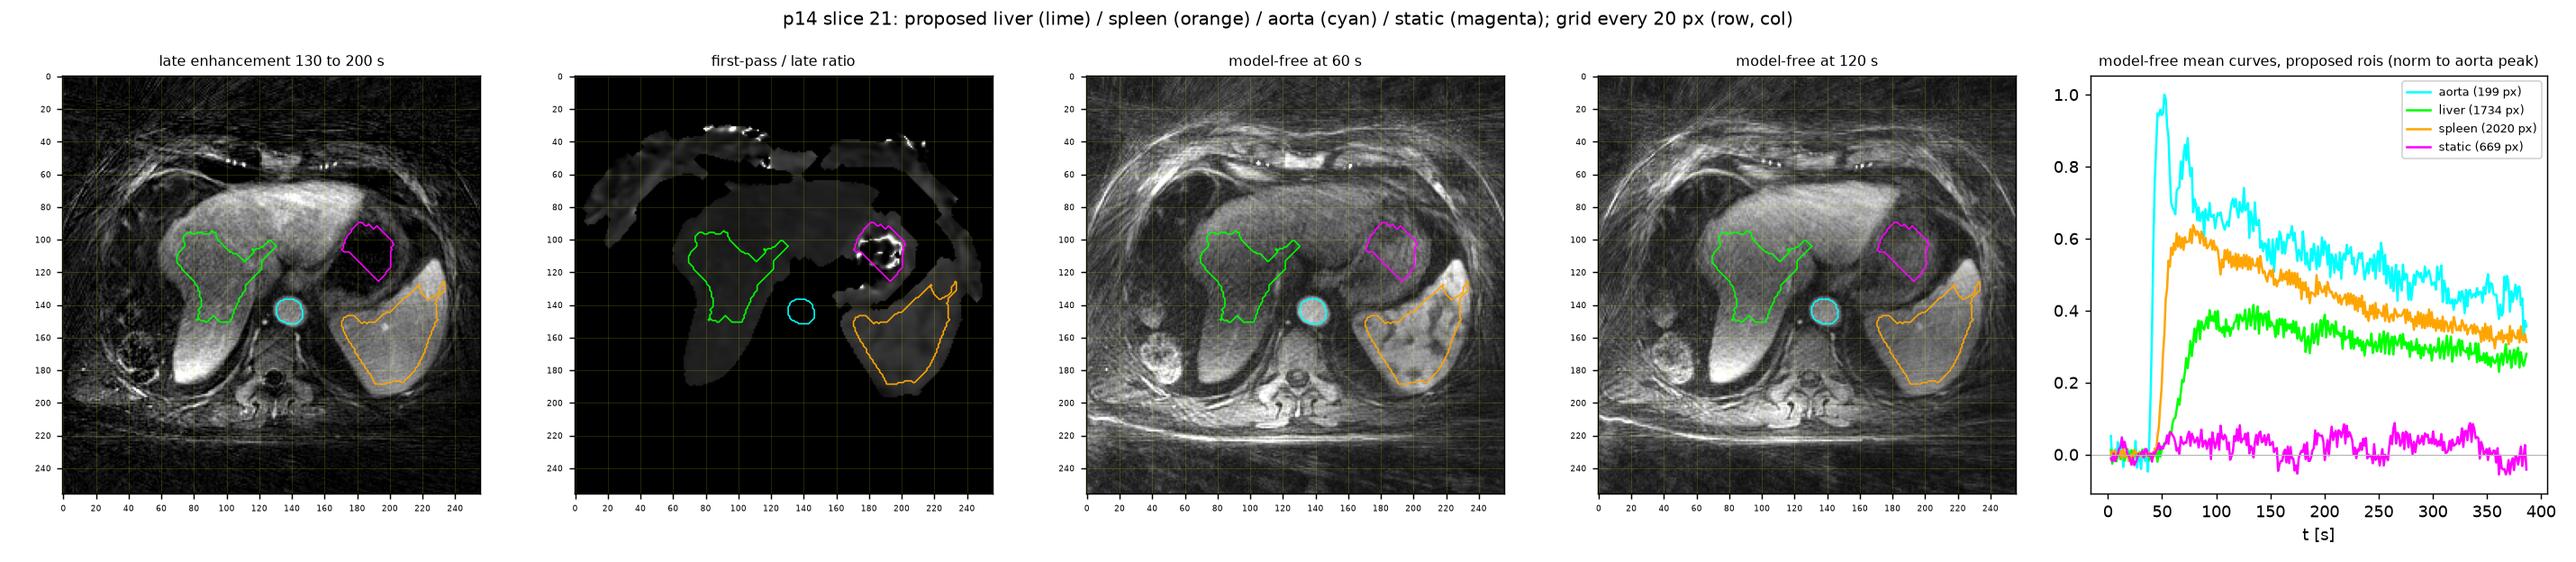
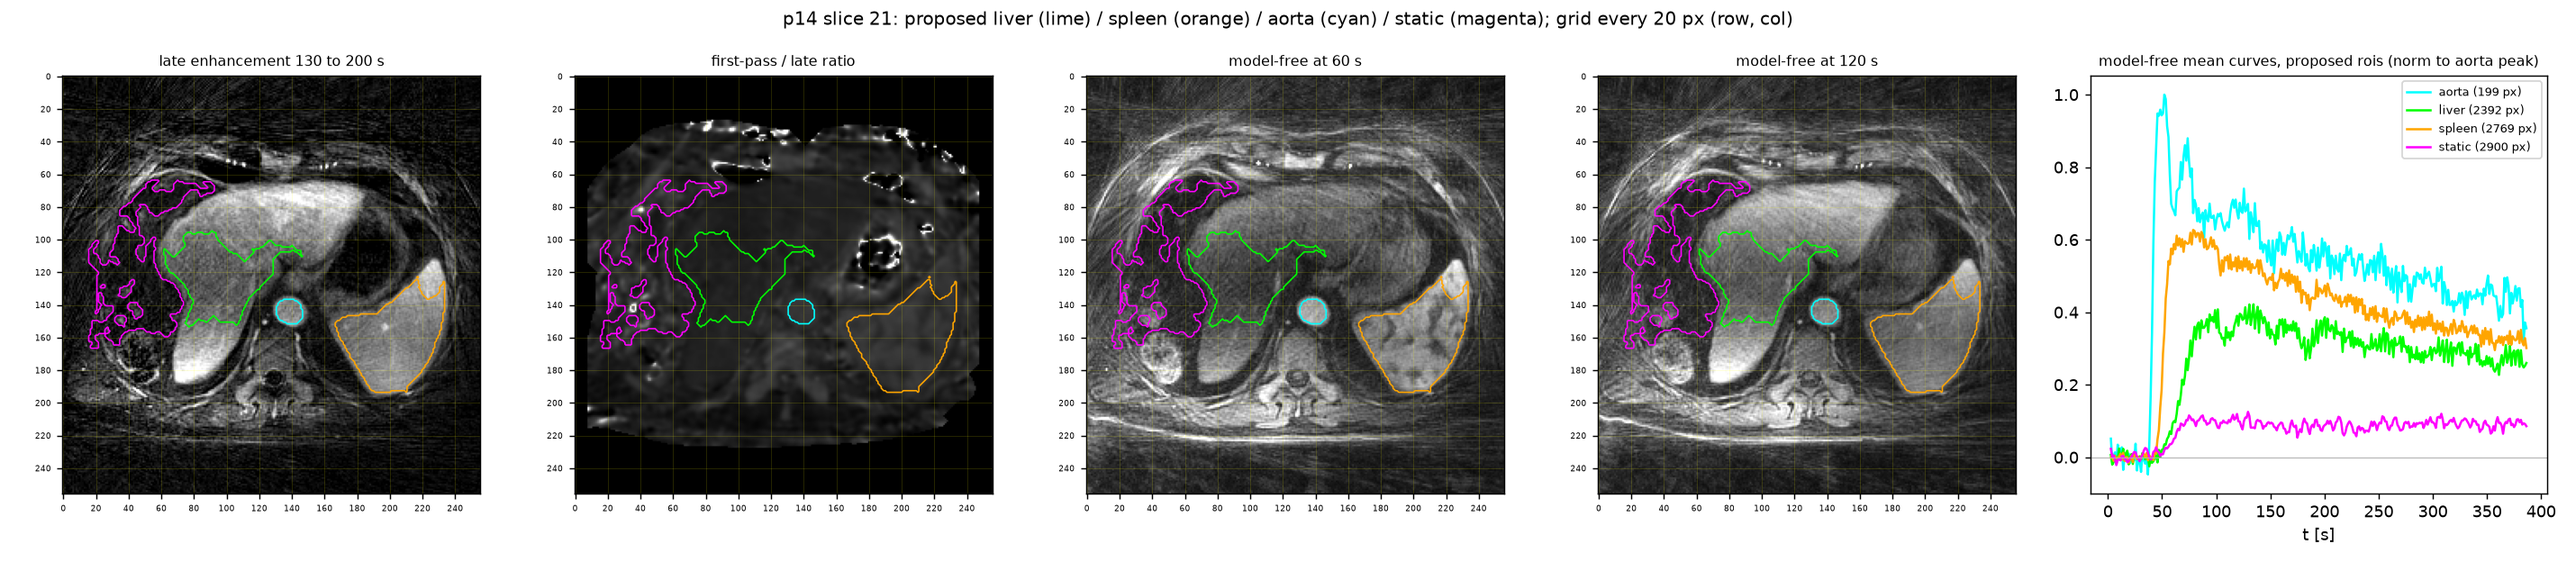
agent 2026-09-25 10:29 worker01.cluster: 9 files

diff --git a/jobs/agent/status.md b/jobs/agent/status.md
@@ -1,18 +1,17 @@
 # helios agent
 
-updated 2026-09-25 10:27:17 on worker01.cluster, job 3373495, cycle 137
+updated 2026-09-25 10:29:23 on worker01.cluster, job 3373495, cycle 138
 
 ## active
 
 | jid | script | state |
 |---|---|---|
-| 3380019 | 083_p14_rois_seeded_v2 | 1 PENDING None |
 
 ## done (last 20)
 
 | name | state |
 |---|---|
-| 083_p14_rois_seeded_v2 | 1 PENDING None |
+| 083_p14_rois_seeded_v2 | 1 COMPLETED 00:00:19 |
 | 082_p14_rois_seeded | 1 COMPLETED 00:00:07 |
 | 081_p14_grids | 1 COMPLETED 00:00:20 |
 | 071_p14_prep_24_27 | 1 COMPLETED 00:33:45, 1 COMPLETED 00:49:26 |

diff --git a/results/realdata_nik_vs_cs_figures/rois_proposed_p14.md b/results/realdata_nik_vs_cs_figures/rois_proposed_p14.md
@@ -2,6 +2,6 @@
 
 | slice | liver px | spleen px | aorta px | static px | liver ttp s / plateau | spleen ttp s / plateau |
 |---|---|---|---|---|---|---|
-| 21 | 1734 | 2020 | 199 | 669 | 134 / 0.69 | 79 / 0.56 |
-| 24 | 0 | 0 | 197 | 511 | 3 / 0.00 | 3 / 0.00 |
-| 27 | 1567 | 1435 | 176 | 389 | 94 / 0.67 | 76 / 0.56 |
+| 21 | 2392 | 2769 | 199 | 2900 | 134 / 0.68 | 79 / 0.57 |
+| 24 | 4 | 2659 | 197 | 2929 | 110 / 0.11 | 84 / 0.55 |
+| 27 | 2290 | 2524 | 176 | 7780 | 94 / 0.68 | 84 / 0.55 |
